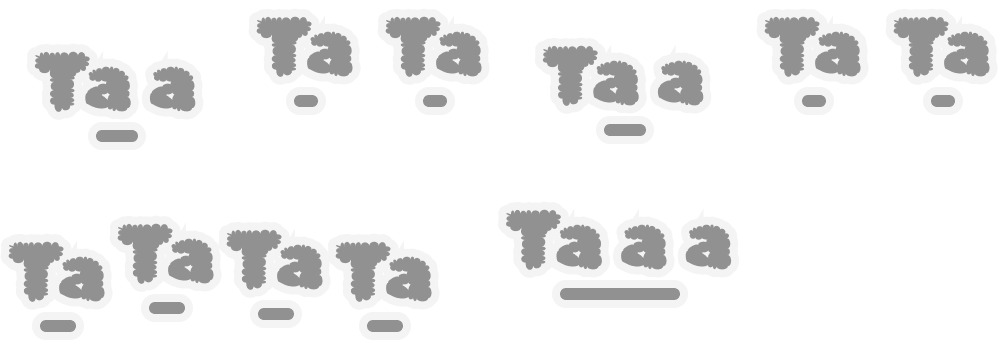
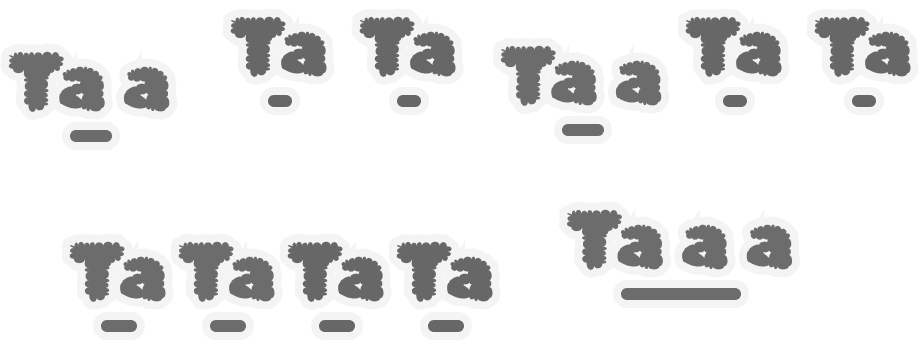
ui update

diff --git a/game/src/index.css b/game/src/index.css
@@ -245,30 +245,30 @@ body {
 }
 
 .arrow {
-  width: 60px;
-  height: 60px;
+  width: 66px;
+  height: 66px;
   background-size: contain;
   background-repeat: no-repeat;
   border: none;
   cursor: pointer;
   position: absolute;
-  bottom: 148px;
+  top: 50%;
   transform: translateY(-100%);
   background: none;
 }
 
 .left {
   background-image: url("../public/images/melody/btn_prev.png");
-  left: 10px;
+  left: 30px;
 }
 
-.left_black {
+/* .left_black {
   background-image: url("../public/images/melody/btn_prev_black.png");
-}
+} */
 
 .right {
   background-image: url("../public/images/melody/btn_next.png");
-  right: 10px;
+  right: 30px;
 }
 
 /* ------旋律-故事------- */
@@ -279,14 +279,16 @@ body {
 }
 
 .storyText {
-  color: #f0f0f0;
-  font-size: 20px;
-  font-weight: 500;
   line-height: 35px;
-  width: 620px;
-  top: 116px;
+  bottom: 58px;
   left: 80px;
   position: absolute;
+  color: #4c4b4c;
+  filter: drop-shadow(-2px -2px 1px #eee) drop-shadow(2px -2px 1px #eee)
+    drop-shadow(-2px 2px 1px #eee) drop-shadow(2px 2px 1px #eee);
+  font-size: 22px;
+  font-style: normal;
+  font-weight: 500;
 }
 
 .toggle-text-btn {
@@ -369,8 +371,8 @@ body {
 
 /* Menu Button */
 .menu-btn {
-  width: 90px;
-  height: 82px;
+  width: 64x;
+  height: 40px;
   background: none;
   border: none;
   cursor: pointer;
@@ -380,21 +382,21 @@ body {
 
 /* Menu Panel */
 .menu-panel {
-  margin-top: -40px;
+  margin-top: -22px;
   background: white;
   border-radius: 32px;
-  padding: 50px 9px 18px;
+  padding: 50px 7px 20px;
   display: flex;
   flex-direction: column;
-  gap: 12px;
+  gap: 6px;
   box-shadow: 0px 2px 4px 0px rgba(0, 0, 0, 0.25);
 }
 
 /* Menu Items */
 .menu-item {
   padding: 0;
-  width: 72px;
-  height: 72px;
+  width: 48px;
+  height: 48px;
   border: none;
   background: transparent;
   cursor: pointer;
@@ -405,13 +407,13 @@ body {
 }
 
 .notes {
-  width: 982px;
+  width: 903px;
   height: 332px;
   background-size: contain;
   position: absolute;
-  top: 158px;
-  left: 93px;
-  /* background-image: url("../public/images/melody/position.png"); */
+  top: 144px;
+  left: 146px;
+  background-image: url("../public/images/melody/position.png");
 }
 
 .notes .note {
@@ -455,56 +457,56 @@ body {
 
 .notes .note:nth-child(1) {
   top: 35px;
-  left: 30px;
+  left: 8px;
 }
 
 .notes .note:nth-child(2) {
   top: 6px;
-  left: 248px;
+  left: 222px;
 }
 
 .notes .note:nth-child(3) {
   top: 6px;
-  left: 377px;
+  left: 349px;
 }
 
 .notes .note:nth-child(4) {
   top: 29px;
-  left: 528px;
+  left: 485px;
 }
 
 .notes .note:nth-child(5) {
   top: 6px;
-  left: 747px;
+  left: 667px;
 }
 .notes .note:nth-child(6) {
   top: 6px;
-  left: 873px;
+  left: 794px;
 }
 
 .notes .note:nth-child(7) {
-  top: 228px;
-  left: 6px;
+  top: 225px;
+  left: 68px;
 }
 
 .notes .note:nth-child(8) {
-  top: 210px;
-  left: 112px;
+  top: 225px;
+  left: 172px;
 }
 
 .notes .note:nth-child(9) {
-  top: 213px;
-  left: 218px;
+  top: 225px;
+  left: 278px;
 }
 
 .notes .note:nth-child(10) {
   top: 225px;
-  left: 327px;
+  left: 387px;
 }
 
 .notes .note:nth-child(11) {
   top: 193px;
-  left: 493px;
+  left: 553px;
 }
 
 /* ------旋律-遊戲-結果------ */

diff --git a/game/src/pages/MelodyGame.js b/game/src/pages/MelodyGame.js
@@ -1,6 +1,7 @@
 import { useState, useEffect, useRef } from "react";
 import { useNavigate } from "react-router-dom";
 import { motion, AnimatePresence } from "framer-motion";
+import MelodyMenu from "./MelodyMenu"; // 引入 MelodyMenu
 
 const API_BASE_URL = "http://127.0.0.1:5000"; // Flask 伺服器地址
 
@@ -321,70 +322,17 @@ const MelodyGame = () => {
         到結果頁（測試用）
       </button>
 
-      {/* Menu Button */}
-      <div className="menu-container">
-        <button className="menu-btn" onClick={() => setIsOpen(!isOpen)}>
-          <img src="/images/melody/btn_menu.png" alt="Menu" />
-        </button>
-
-        {/* Menu Panel */}
-        <AnimatePresence>
-          {isOpen && (
-            <motion.div
-              initial={{ opacity: 0, y: -20 }}
-              animate={{ opacity: 1, y: 0 }}
-              exit={{ opacity: 0, y: -20 }}
-              className="menu-panel"
-            >
-              {/* 播放按鈕
-              <button className="menu-item" onClick={() => setIsPlaying(true)}>
-                <img src="/images/melody/btn_menu_play.png" alt="Play" />
-              </button>
-
-              識別+記憶
-              <button className="menu-item" onClick={() => setIsPlaying(false)}>
-                <img src="/images/melody/btn_menu_record.png" alt="Record" />
-              </button>
-
-              重置
-              <button
-                className="menu-item"
-                onClick={() => {
-                  setAudioIndex(0);
-                  setIsPlaying(true);
-                }}
-              >
-                <img src="/images/melody/btn_menu_restart.png" alt="Reset" />
-              </button> */}
-              {/* 播放按鈕 */}
-              <button
-                className="menu-item"
-                onClick={handlePlay}
-                disabled={loading}
-              >
-                <img src="/images/melody/btn_menu_play.png" alt="Play" />
-              </button>
-
-              {/* 辨識+記錄 */}
-              <button
-                className="menu-item"
-                onClick={handleRecord}
-                disabled={loading}
-              >
-                <img src="/images/melody/btn_menu_record.png" alt="Record" />
-              </button>
-
-              {/* 重置 */}
-              <button className="menu-item" onClick={handleReset}>
-                <img src="/images/melody/btn_menu_restart.png" alt="Reset" />
-              </button>
-            </motion.div>
-          )}
-        </AnimatePresence>
-      </div>
+      {/* Menu */}
+      <MelodyMenu
+        isOpen={isOpen}
+        handlePlay={handlePlay}
+        handleRecord={handleRecord}
+        handleReset={handleReset}
+        loading={loading}
+      />
 
       <button
-        className="arrow left left_black"
+        className="arrow left"
         onClick={() => navigate("/melody/tutorial")}
       ></button>
 

diff --git a/game/src/pages/MelodyMenu.js b/game/src/pages/MelodyMenu.js
@@ -1,0 +1,49 @@
+import { useState } from "react";
+import { motion, AnimatePresence } from "framer-motion";
+
+const MelodyMenu = ({ handlePlay, handleRecord, handleReset, loading }) => {
+  const [isOpen, setIsOpen] = useState(false);
+
+  return (
+    <div className="menu-container">
+      {/* Menu Button */}
+      <button className="menu-btn" onClick={() => setIsOpen(!isOpen)}>
+        <img src="/images/melody/btn_menu.png" alt="Menu" />
+      </button>
+
+      {/* Menu Panel */}
+      <AnimatePresence>
+        {isOpen && (
+          <motion.div
+            initial={{ opacity: 0, y: -20 }}
+            animate={{ opacity: 1, y: 0 }}
+            exit={{ opacity: 0, y: -20 }}
+            className="menu-panel"
+          >
+            <button
+              className="menu-item"
+              onClick={handlePlay}
+              disabled={loading}
+            >
+              <img src="/images/melody/btn_menu_play.png" alt="Play" />
+            </button>
+
+            <button
+              className="menu-item"
+              onClick={handleRecord}
+              disabled={loading}
+            >
+              <img src="/images/melody/btn_menu_record.png" alt="Record" />
+            </button>
+
+            <button className="menu-item" onClick={handleReset}>
+              <img src="/images/melody/btn_menu_restart.png" alt="Reset" />
+            </button>
+          </motion.div>
+        )}
+      </AnimatePresence>
+    </div>
+  );
+};
+
+export default MelodyMenu;

diff --git a/game/src/pages/MelodyStory.js b/game/src/pages/MelodyStory.js
@@ -1,8 +1,10 @@
 import React from "react";
 import { useState, useEffect } from "react";
 import { useNavigate } from "react-router-dom";
+import MelodyMenu from "./MelodyMenu";
 
 function MelodyStory() {
+  const [isOpen, setIsOpen] = useState(false);
   const [showText, setShowText] = useState(true); // 控制文本顯示
   const [lastVisited, setLastVisited] = useState(""); // 上次到訪時間
   const navigate = useNavigate();
@@ -37,8 +39,9 @@ function MelodyStory() {
 
       {/* 只有 showText 為 true 時才顯示文本 */}
       {showText && (
-        <div className="storyText">
-          皇后和她的士兵們走進洞穴，發現裡面意外地寬敞明亮，充滿著魔法的音符精靈，這些音符精靈隨著他們的腳步在牆上飛舞跳躍，時不時唱著各種旋律，講述著音符果實的誕生傳說。
+        <div className="storyText text-shadow-outline">
+          皇后帶著士兵走進洞穴，發現裡面寬敞又明亮！魔法音符精靈 <br />
+          在牆上飛舞，隨著腳步跳動，還唱著旋律，講述音符果實的神秘傳說。
         </div>
       )}
       <button
@@ -51,6 +54,9 @@ function MelodyStory() {
         <div className="badge-icon"></div>
         <div className="visit-time">{lastVisited || "首次訪問"}</div>
       </div>
+
+      {/* Menu */}
+      <MelodyMenu isOpen={isOpen} />
     </div>
   );
 }

diff --git a/game/src/pages/MelodyTutorial.js b/game/src/pages/MelodyTutorial.js
@@ -1,4 +1,6 @@
 import { useNavigate } from "react-router-dom";
+import { useState } from "react";
+import MelodyMenu from "./MelodyMenu"; // 引入 MelodyMenu
 
 const MelodyTutorial = () => {
   const navigate = useNavigate();
@@ -31,6 +33,9 @@ const MelodyTutorial = () => {
         className="arrow right"
         onClick={() => navigate("/melody/game")}
       ></button>
+
+      {/* Menu */}
+      <MelodyMenu />
     </div>
   );
 };
